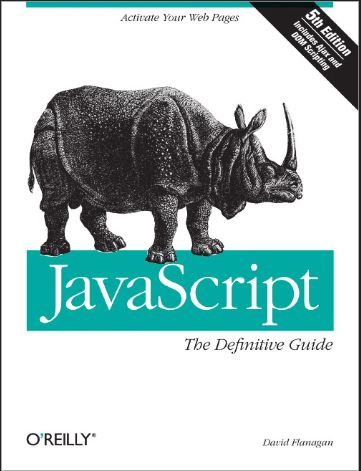
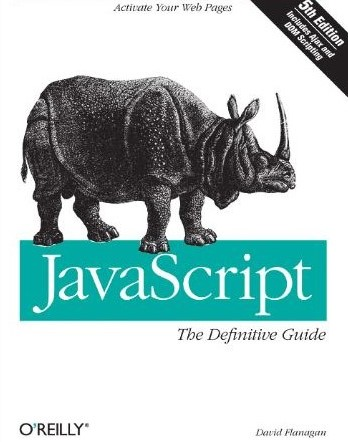
images fixed

Changed region(s): [[0.0, 0.0, 1.0, 1.0], [0.7184, 0.9118, 0.9483, 1.0], [0.0575, 0.9118, 0.2586, 1.0]]

diff --git a/src/views/resourcespage/components/ResourceDescription.tsx b/src/views/resourcespage/components/ResourceDescription.tsx
@@ -71,7 +71,7 @@ function ResourceDescription ({...resourceData}){
                             <CardImg
                                 src={resourceData.book1Image}
                                 alt={resourceData.descriptionImageAltText}
-                                top width="100%"
+                                
                                 className="card-image"/>
                             <CardBody>
                             <CardSubtitle
@@ -102,7 +102,7 @@ function ResourceDescription ({...resourceData}){
                             <CardImg
                                 src={resourceData.book2Image}
                                 alt={resourceData.descriptionImageAltText}
-                                top width="100%"
+                               
                                 className="card-image"/>
                             <CardBody>
                             <CardSubtitle
@@ -133,7 +133,7 @@ function ResourceDescription ({...resourceData}){
                             <CardImg
                                 src={resourceData.book3Image}
                                 alt={resourceData.descriptionImageAltText}
-                                top width="100%"
+                              
                                 className="card-image"/>
                             <CardBody>
                             <CardSubtitle

diff --git a/src/views/resourcespage/ResourcesData.ts b/src/views/resourcespage/ResourcesData.ts
@@ -10,7 +10,7 @@ const ResourcesData =
         descriptionImage: require('./images/resource_books.png'), 
         descriptiomImageAltText: "libros",
         book1Image: require('./images/Eloquent_JS.JPG'),
-        book2Image: require('./images/Cleancode.JPG'),
+        book2Image: require('./images/Definitive_Guide.JPG'),
         book3Image: require('./images/Refractoring.JPG'),
         detailsEnglish: "This is book 1 details",
         detailsSpanish: "Detalles del libro 1",

diff --git a/src/styles/styles.css b/src/styles/styles.css
@@ -213,7 +213,13 @@ hr.solid {
   background: linear-gradient(178.23deg, #3b59f9 1.5%, #a9b7ff 128.18%);
   border-radius: 30px;
 }
-
+.card-image{
+  margin-top: 15px;
+  height: auto;
+  max-height: 280px;
+  width: auto;
+  max-width: 250px;
+}
 /* responsive styles */
 
 @media only screen and (max-width: 600px) {
